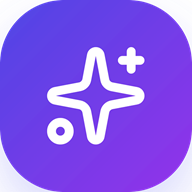
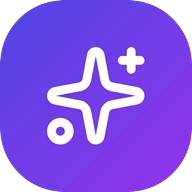
update pwa image

diff --git a/client/vite.config.js b/client/vite.config.js
@@ -21,11 +21,13 @@ export default defineConfig({
             src: '/icon-192x192.png',
             sizes: '192x192',
             type: 'image/png',
+            purpose: 'any maskable',
           },
           {
             src: '/icon-512x512.png',
             sizes: '512x512',
             type: 'image/png',
+            purpose: 'any maskable',
           },
         ],
       },
